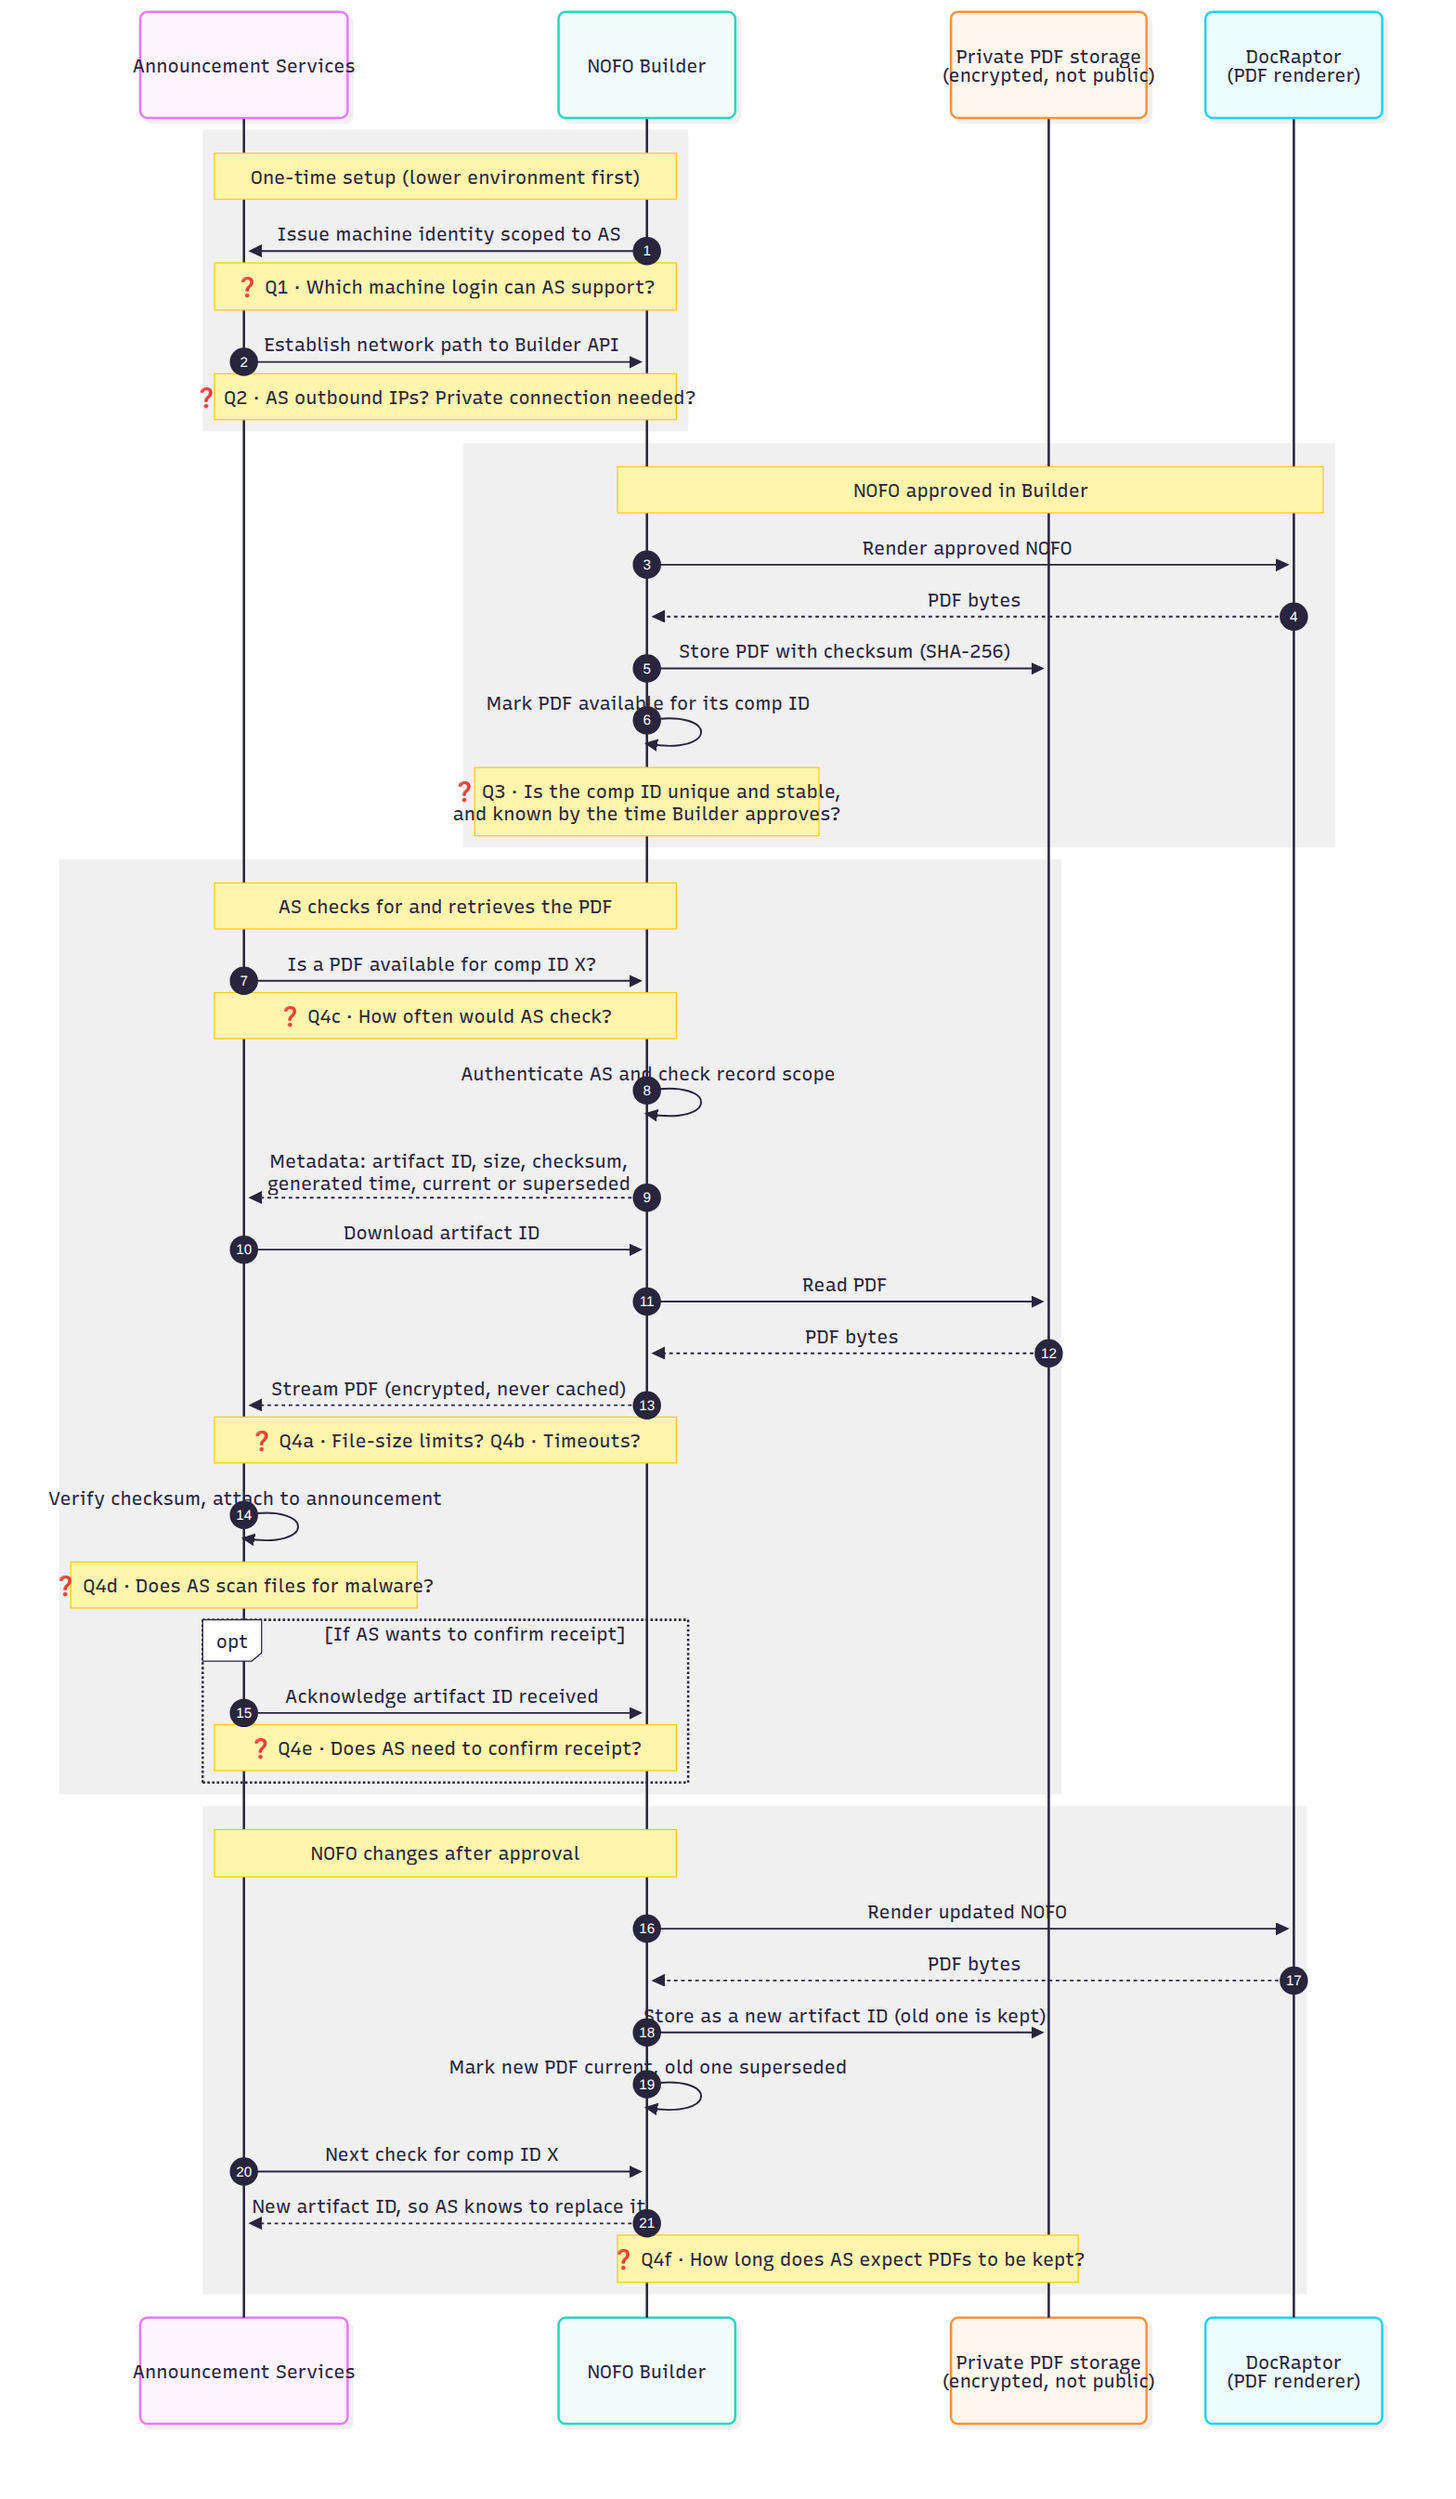
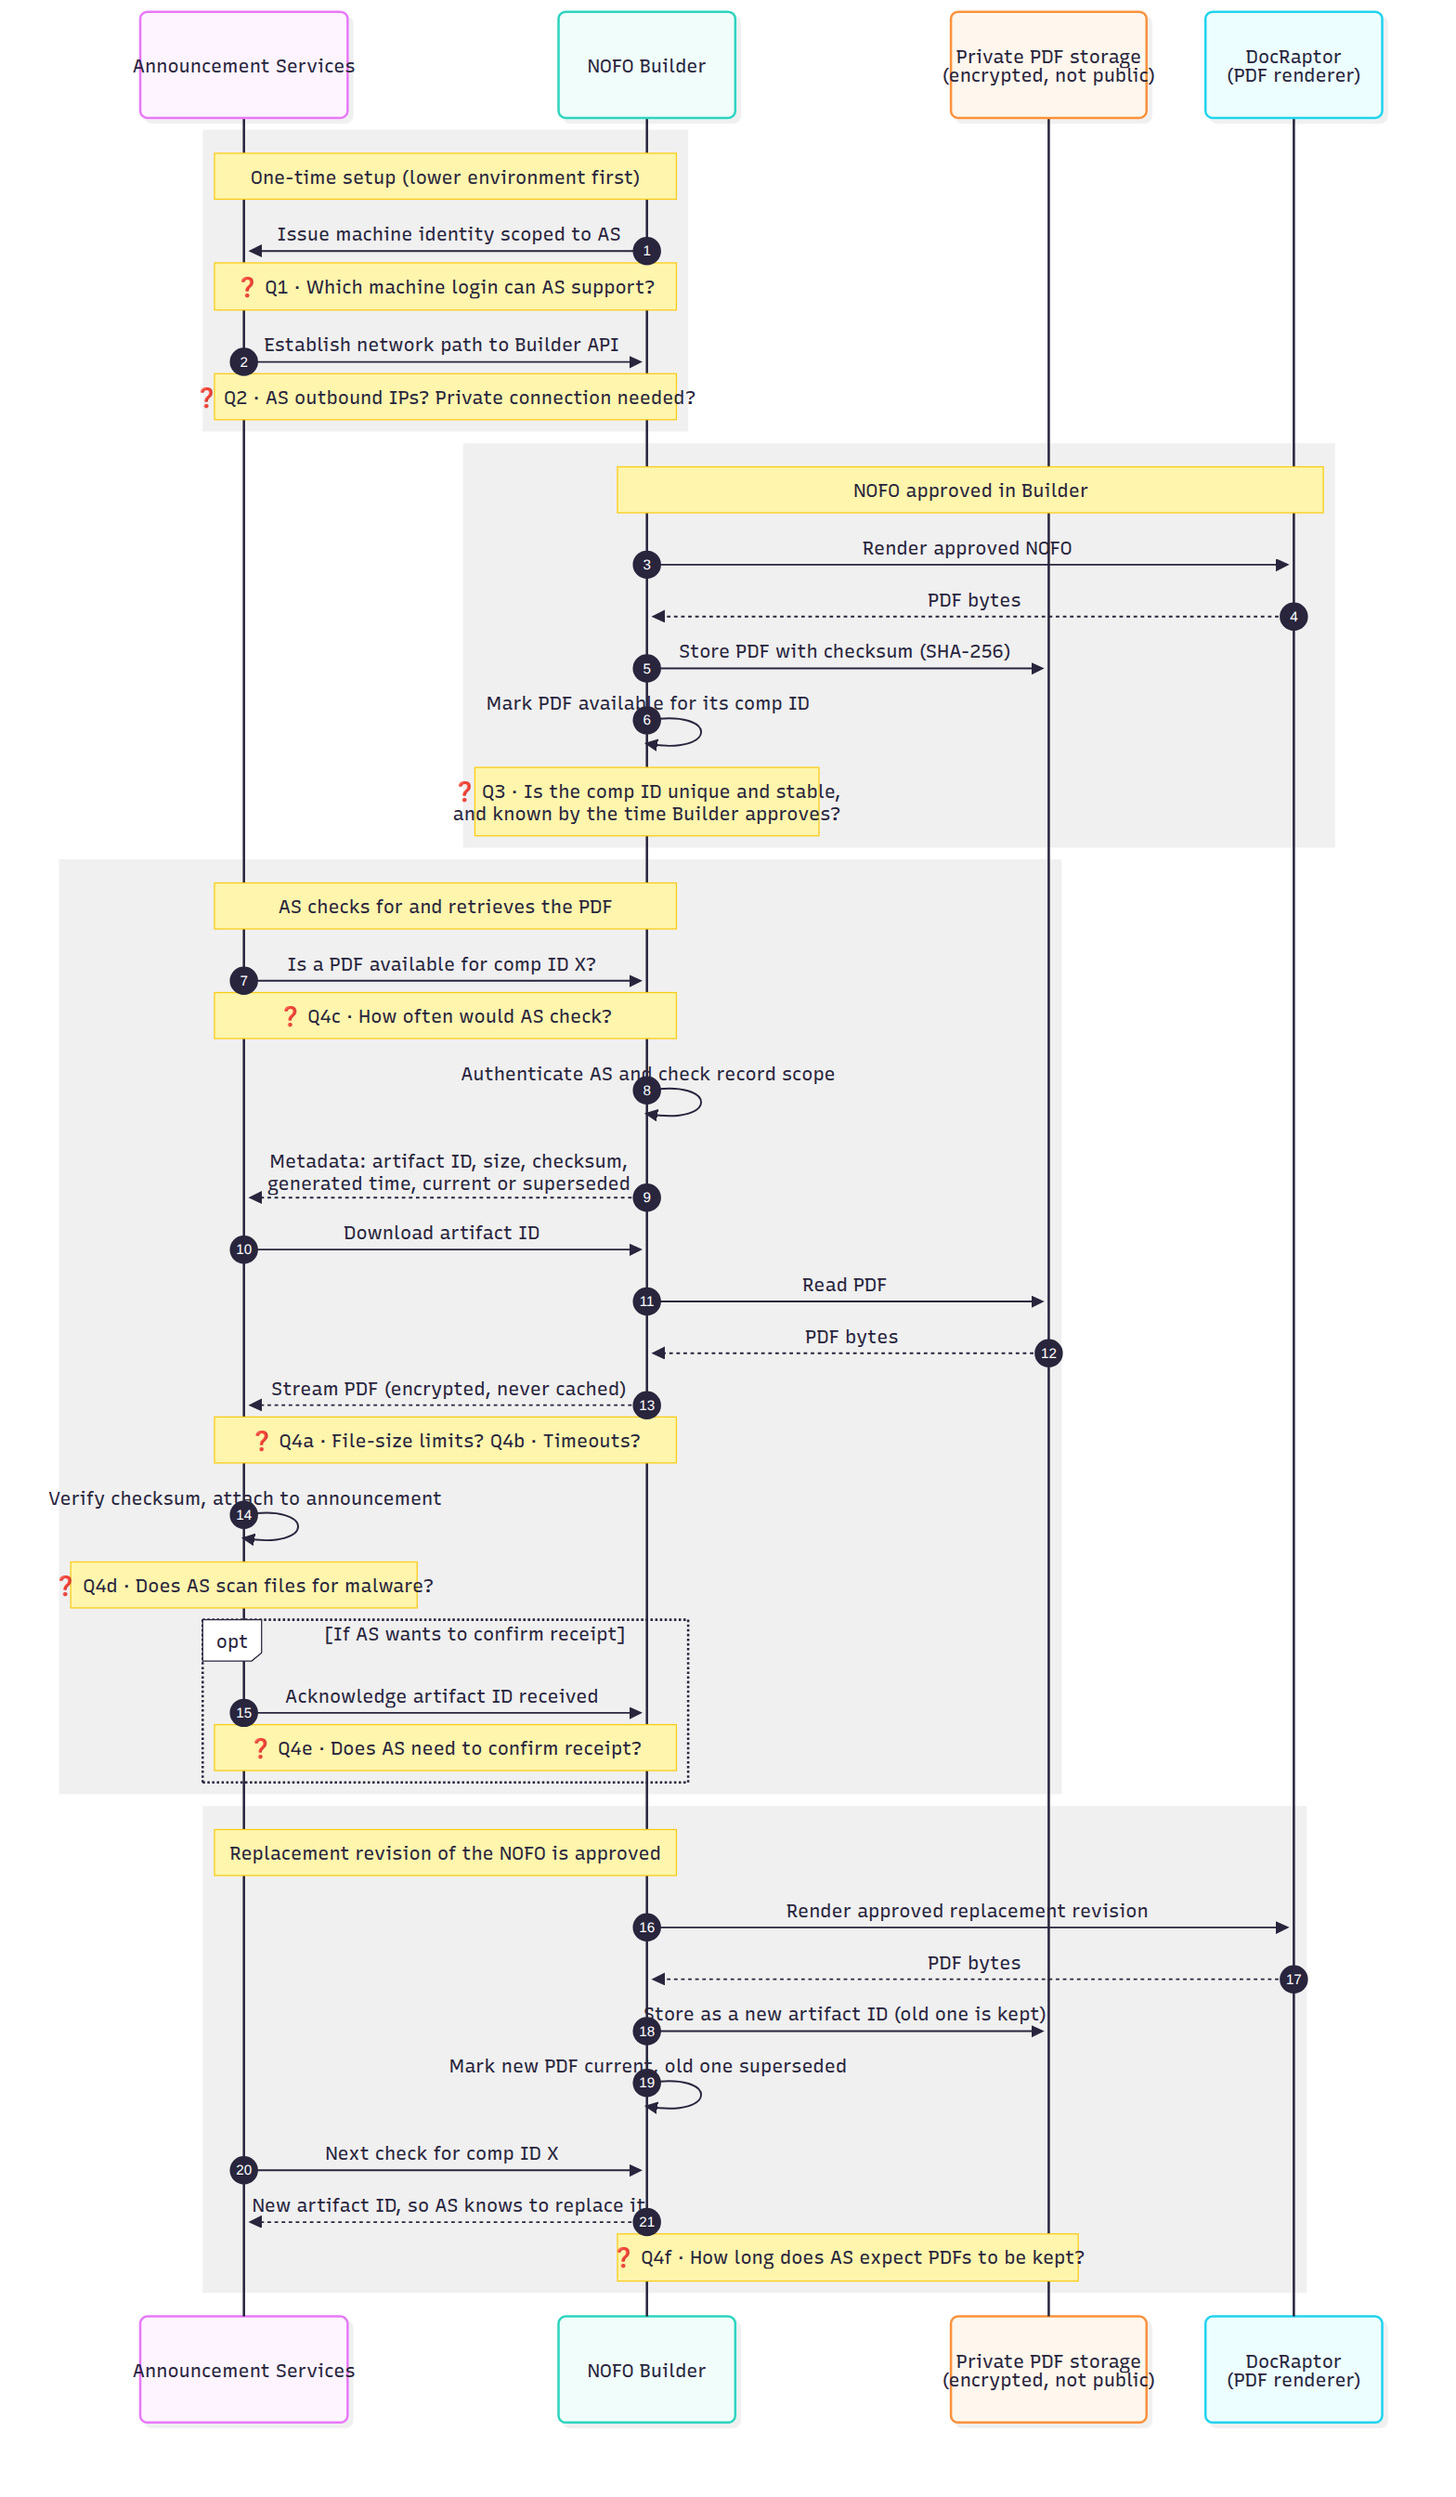
docs: address review on PDF retrieval proposal
- Replacement PDFs are made only for an approved replacement revision,
  not for any change after approval (summary and diagram).
- Allow credentials scoped to synthetic data in a lower environment
  before lifecycle approval; real PDFs still wait for approval (#957).
- Clarify that any download option, including a short-lived link, must
  keep the trust boundary: AS gets no DocRaptor or storage credentials.
- Re-render the diagram PNG.

Claude-Session: https://claude.ai/code/session_019o95ULnThWPnjMNXo5fr6Q

diff --git a/documentation/PDF_ARTIFACT_RETRIEVAL_PROPOSAL.md b/documentation/PDF_ARTIFACT_RETRIEVAL_PROPOSAL.md
@@ -16,11 +16,15 @@ Questions are marked ❓ and labeled **Q1–Q4f** in the diagram, and listed in
 ## What we propose
 
 - **AS pulls PDFs from Builder.** AS asks Builder whether an approved PDF
-  exists for a comp ID, then downloads it from Builder. AS never connects to
-  DocRaptor (our PDF renderer) or to our file storage.
-- **Each PDF is fixed once created.** If a NOFO changes after approval,
-  Builder creates a new PDF with a new artifact ID, checksum and generation
-  time. The previous PDF stays available until the replacement is stored.
+  exists for a comp ID, then downloads it through Builder. AS never connects to
+  DocRaptor (our PDF renderer) and never receives DocRaptor or storage
+  credentials. The default is to stream the PDF through Builder. A short-lived
+  download link is an option only if it keeps that same trust boundary and
+  security approves it (see Q4b).
+- **Each PDF is fixed once created.** A new PDF is made only when a
+  replacement revision of the NOFO is approved, not for every edit after
+  approval. The new PDF gets a new artifact ID, checksum and generation time.
+  The previous PDF stays available until the replacement is stored.
 - **AS gets its own machine identity.** Access is limited to the records
   and OpDivs AS is approved for. Every attempt is logged. A request outside
   that scope reveals nothing, including whether the record exists.
@@ -78,8 +82,8 @@ sequenceDiagram
     end
 
     rect rgba(128,128,128,0.12)
-    Note over AS,B: NOFO changes after approval
-    B->>D: Render updated NOFO
+    Note over AS,B: Replacement revision of the NOFO is approved
+    B->>D: Render approved replacement revision
     D-->>B: PDF bytes
     B->>S: Store as a new artifact ID (old one is kept)
     B->>B: Mark new PDF current, old one superseded
@@ -99,7 +103,7 @@ Please add answers in the right-hand column, or reply on issue #962.
 | Q2 | Setup | What outbound IP addresses will AS call from? Does AS need a private connection (VPN or private link) rather than HTTPS over the internet? | Decides network rules and any allowlisting in the lower environment and in production. | |
 | Q3 | Approval | Is the comp ID unique and stable for the life of an announcement? Is it assigned before the NOFO is approved in Builder? | The comp ID is the key AS uses to look up a PDF. If it's missing at approval or can change, we need a different link between the two systems. | |
 | Q4a | Download | What is the largest PDF AS can accept? | Most NOFO PDFs are well under typical limits, but long NOFOs with images can be large. | |
-| Q4b | Download | What request and download timeouts does AS use? | Decides whether we stream the PDF directly or offer a short-lived download link. | |
+| Q4b | Download | What request and download timeouts does AS use? | Decides whether streaming through Builder is enough or a short-lived download link is needed. Either way, the final option must keep the agreed trust boundary: AS gets no DocRaptor or storage credentials. | |
 | Q4c | Check | How often would AS check for a new or updated PDF? Would a notification from Builder be preferred? | Sets rate limits and whether polling alone is enough. | |
 | Q4d | Attach | Does AS scan received files for malware? | Decides whether Builder also needs to scan, or whether one side is enough. | |
 | Q4e | Receipt | Does AS need to confirm it received a PDF? | Tells us whether to build a receipt acknowledgment and record it in the audit log. | |
@@ -112,8 +116,9 @@ These aren't technical questions, but they take the longest to arrange:
 - A technical contact and a security contact (ISSO) on each side.
 - Whatever interconnection agreement (ISA or MOU) the two systems require.
 - Agreement that early testing uses a lower environment and synthetic NOFOs
-  only. No credentials are issued and no real PDFs are shared until security
-  and records owners approve the contract (#957).
+  only. Credentials scoped to synthetic data in a lower environment can be
+  issued for that testing. No real PDFs are exposed until security and records
+  owners approve the lifecycle (#957).
 
 ## Current status
 
